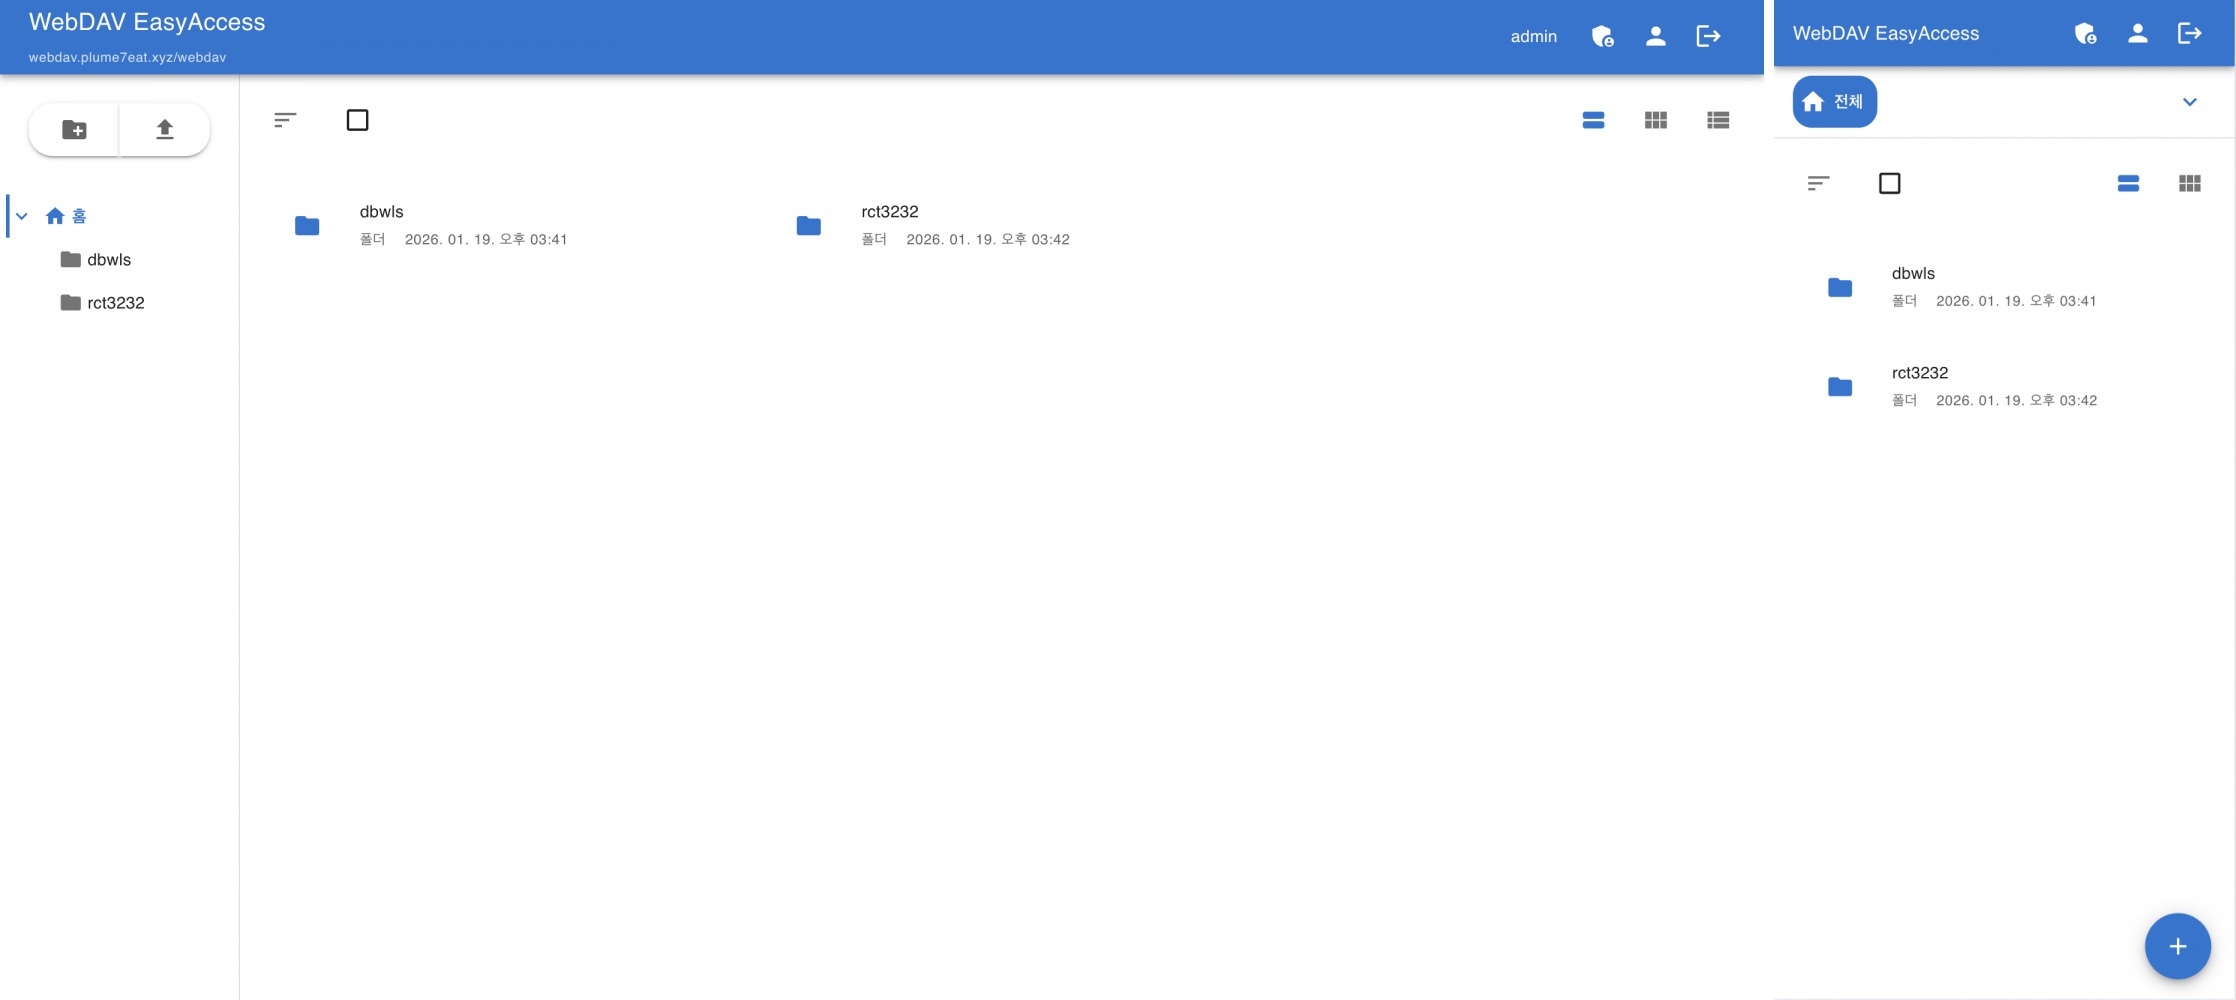
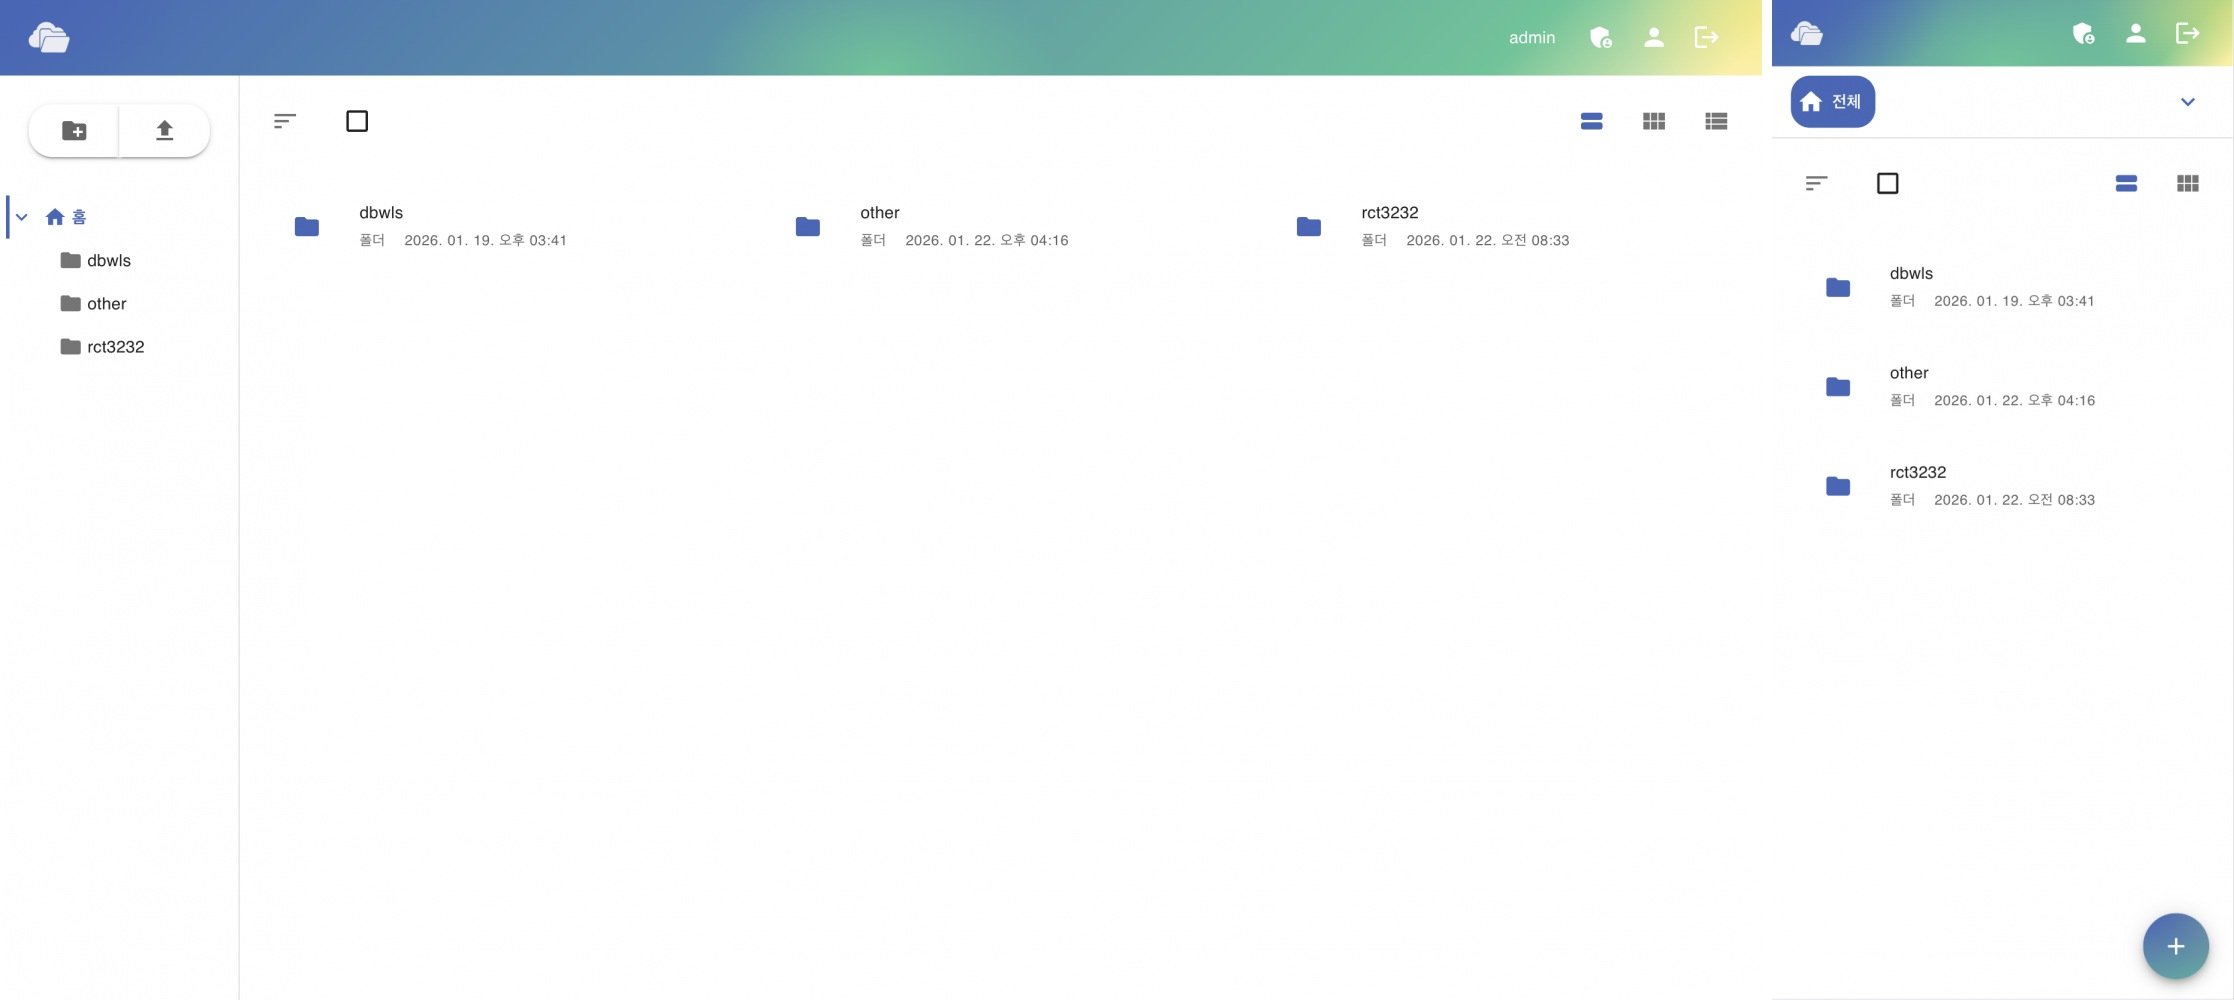
feat: add branding assets and update theme colors
- Add favicon support with multiple sizes and formats

- Update theme colors (primary: #4167ba, secondary: #52c597)

- Add logo images to Login, Register, and FileManager pages

- Apply gradient background to AppBar components

- Enhance MobileFAB with gradient background styling

diff --git a/client/src/pages/FileManager.js b/client/src/pages/FileManager.js
@@ -877,17 +877,32 @@ const FileManager = () => {
         minHeight: 0,
       }}
     >
-      <AppBar position="sticky" sx={{ top: 0, zIndex: (theme) => theme.zIndex.appBar }} elevation={4}>
+      <AppBar 
+        position="sticky" 
+        sx={{ 
+          top: 0, 
+          zIndex: (theme) => theme.zIndex.appBar,
+          background: `
+            radial-gradient(ellipse 250px 150px at 0% 0%, #4167ba 0%, transparent 60%),
+            radial-gradient(ellipse 250px 150px at 50% 100%, #52c597 0%, transparent 60%),
+            radial-gradient(ellipse 300px 200px at 100% 15%, rgba(251, 229, 89, 0.6) 0%, transparent 40%),
+            linear-gradient(135deg, #4167ba, #52c597 85%, rgba(251, 229, 89, 0.5) 98%)
+          `.trim(),
+        }} 
+        elevation={0}
+      >
         <Toolbar>
-          <Box sx={{ flexGrow: 1 }}>
-            <Typography variant="h6" component="div" sx={{ fontSize: isMobile ? '1rem' : '1.25rem' }}>
-              WebDAV EasyAccess
-            </Typography>
-            {webdavUrl && !isMobile && (
-              <Typography variant="caption" sx={{ opacity: 0.8, fontSize: '0.7rem' }}>
-                {webdavUrl}
-              </Typography>
-            )}
+          <Box sx={{ flexGrow: 1, display: 'flex', alignItems: 'center' }}>
+            <Box
+              component="img"
+              src="/logo_white.png"
+              alt="WebDAV EasyAccess"
+              sx={{
+                height: isMobile ? '27px' : '33.75px',
+                maxWidth: '100%',
+                objectFit: 'contain',
+              }}
+            />
           </Box>
           {!isMobile && (
             <Typography variant="body2" sx={{ mr: 2 }}>

diff --git a/client/src/components/MobileFAB.js b/client/src/components/MobileFAB.js
@@ -51,6 +51,20 @@ const MobileFAB = ({
         '& .MuiFab-primary': {
           width: 56,
           height: 56,
+          background: `
+            radial-gradient(ellipse 250px 150px at 0% 0%, #4167ba 0%, transparent 60%),
+            radial-gradient(ellipse 250px 150px at 50% 100%, #52c597 0%, transparent 60%),
+            radial-gradient(ellipse 300px 200px at 100% 15%, rgba(251, 229, 89, 0.6) 0%, transparent 40%),
+            linear-gradient(135deg, #4167ba, #52c597 85%, rgba(251, 229, 89, 0.5) 98%)
+          `.trim(),
+          '&:hover': {
+            background: `
+              radial-gradient(ellipse 250px 150px at 0% 0%, #4167ba 0%, transparent 60%),
+              radial-gradient(ellipse 250px 150px at 50% 100%, #52c597 0%, transparent 60%),
+              radial-gradient(ellipse 180px 100px at 100% 30%, #fbe559 0%, transparent 50%),
+              linear-gradient(135deg, #4167ba, #52c597 80%, #fbe559 95%)
+            `.trim(),
+          },
         },
         // Account for iOS safe area
         paddingBottom: 'env(safe-area-inset-bottom)',

diff --git a/client/public/index.html b/client/public/index.html
@@ -5,6 +5,15 @@
     <meta name="viewport" content="width=device-width, initial-scale=1" />
     <meta name="theme-color" content="#000000" />
     <meta name="description" content="WebDAV EasyAccess - Google Drive-like file management" />
+    
+    <!-- Favicons -->
+    <link rel="icon" type="image/x-icon" href="/favi/favicon.ico" />
+    <link rel="icon" type="image/png" sizes="16x16" href="/favi/favicon-16x16.png" />
+    <link rel="icon" type="image/png" sizes="32x32" href="/favi/favicon-32x32.png" />
+    <link rel="apple-touch-icon" sizes="180x180" href="/favi/apple-touch-icon.png" />
+    <link rel="icon" type="image/png" sizes="192x192" href="/favi/android-chrome-192x192.png" />
+    <link rel="icon" type="image/png" sizes="512x512" href="/favi/android-chrome-512x512.png" />
+    
     <title>WebDAV EasyAccess</title>
   </head>
   <body>

diff --git a/client/src/pages/Register.js b/client/src/pages/Register.js
@@ -79,10 +79,19 @@ const Register = () => {
           justifyContent: 'center',
         }}
       >
-        <Paper elevation={3} sx={{ p: 4, width: '100%' }}>
-          <Typography variant="h4" component="h1" gutterBottom align="center">
-            WebDAV EasyAccess
-          </Typography>
+        <Paper elevation={0} sx={{ p: 4, width: '100%' }}>
+          <Box
+            component="img"
+            src="/logo.png"
+            alt="WebDAV EasyAccess"
+            sx={{
+              height: '96px',
+              maxWidth: '100%',
+              objectFit: 'contain',
+              display: 'block',
+              margin: '0 auto 16px',
+            }}
+          />
           <Typography variant="subtitle1" gutterBottom align="center" color="text.secondary" sx={{ mb: 3 }}>
             회원가입
           </Typography>

diff --git a/client/src/pages/AdminDashboard.js b/client/src/pages/AdminDashboard.js
@@ -264,7 +264,20 @@ const AdminDashboard = () => {
         minHeight: 0,
       }}
     >
-      <AppBar position="sticky" sx={{ top: 0, zIndex: (theme) => theme.zIndex.appBar }}>
+      <AppBar 
+        position="sticky" 
+        sx={{ 
+          top: 0, 
+          zIndex: (theme) => theme.zIndex.appBar,
+          background: `
+            radial-gradient(ellipse 250px 150px at 0% 0%, #4167ba 0%, transparent 60%),
+            radial-gradient(ellipse 250px 150px at 50% 100%, #52c597 0%, transparent 60%),
+            radial-gradient(ellipse 300px 200px at 100% 15%, rgba(251, 229, 89, 0.6) 0%, transparent 40%),
+            linear-gradient(135deg, #4167ba, #52c597 85%, rgba(251, 229, 89, 0.5) 98%)
+          `.trim(),
+        }}
+        elevation={0}
+      >
         <Toolbar>
           <IconButton
             edge="start"

diff --git a/client/src/pages/Login.js b/client/src/pages/Login.js
@@ -69,10 +69,19 @@ const Login = () => {
           justifyContent: 'center',
         }}
       >
-        <Paper elevation={3} sx={{ p: 4, width: '100%' }}>
-          <Typography variant="h4" component="h1" gutterBottom align="center">
-            WebDAV EasyAccess
-          </Typography>
+        <Paper elevation={0} sx={{ p: 4, width: '100%' }}>
+          <Box
+            component="img"
+            src="/logo.png"
+            alt="WebDAV EasyAccess"
+            sx={{
+              height: '96px',
+              maxWidth: '100%',
+              objectFit: 'contain',
+              display: 'block',
+              margin: '0 auto 16px',
+            }}
+          />
           <Typography variant="subtitle1" gutterBottom align="center" color="text.secondary" sx={{ mb: 3 }}>
             로그인
           </Typography>

diff --git a/client/src/pages/MyPage.js b/client/src/pages/MyPage.js
@@ -243,7 +243,20 @@ const MyPage = () => {
         minHeight: 0,
       }}
     >
-      <AppBar position="sticky" sx={{ top: 0, zIndex: (theme) => theme.zIndex.appBar }}>
+      <AppBar 
+        position="sticky" 
+        sx={{ 
+          top: 0, 
+          zIndex: (theme) => theme.zIndex.appBar,
+          background: `
+            radial-gradient(ellipse 250px 150px at 0% 0%, #4167ba 0%, transparent 60%),
+            radial-gradient(ellipse 250px 150px at 50% 100%, #52c597 0%, transparent 60%),
+            radial-gradient(ellipse 300px 200px at 100% 15%, rgba(251, 229, 89, 0.6) 0%, transparent 40%),
+            linear-gradient(135deg, #4167ba, #52c597 85%, rgba(251, 229, 89, 0.5) 98%)
+          `.trim(),
+        }}
+        elevation={0}
+      >
         <Toolbar>
           <IconButton
             edge="start"

diff --git a/client/src/App.js b/client/src/App.js
@@ -22,10 +22,10 @@ const theme = createTheme({
   },
   palette: {
     primary: {
-      main: '#1976d2',
+      main: '#4167ba',
     },
     secondary: {
-      main: '#dc004e',
+      main: '#52c597',
     },
   },
   components: {
